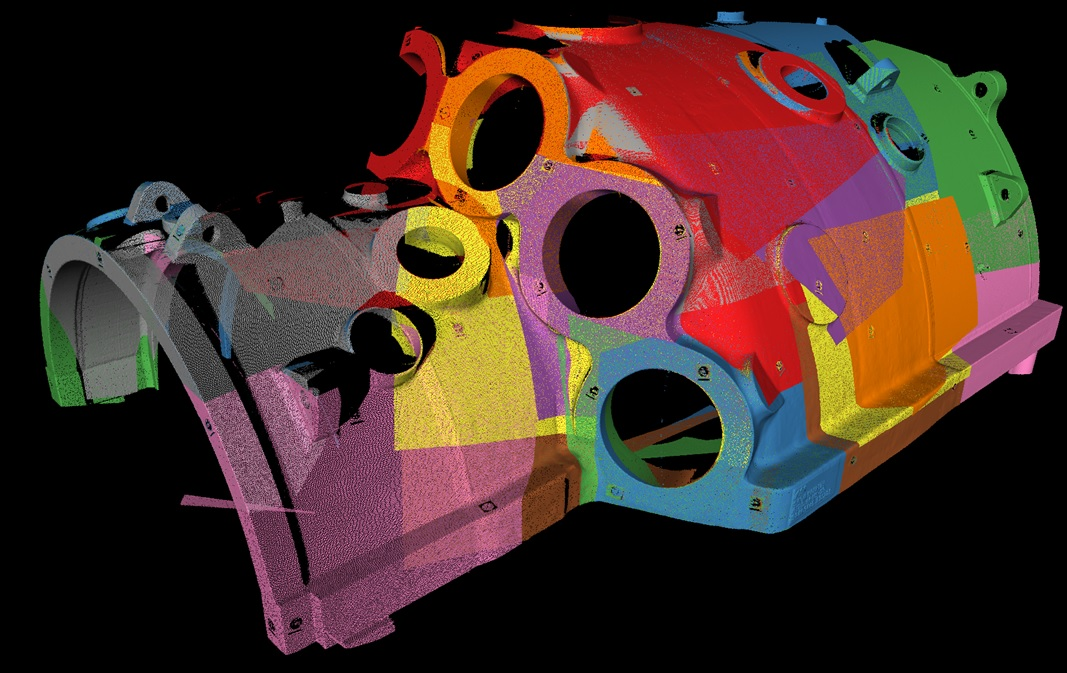
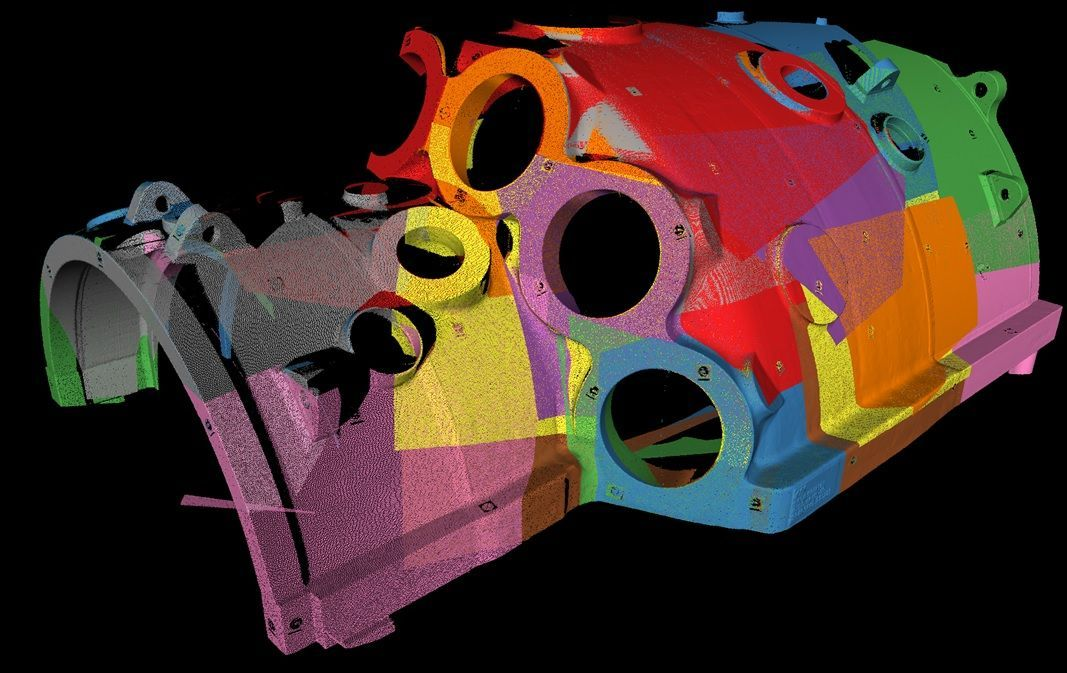
images optimized

diff --git a/index.html b/index.html
@@ -926,7 +926,7 @@ Eventually, we perform extensive tests on real data and demonstrate both numeric
 							<div class="col c1">
 								<article class="postPage">
 									<h4>HMM Real-time Illumination, Clutter and Occlusion Invariant Shape Matching</h4>
-									<img src="img/posts/barcode.png" alt="Barcode Decoding" class="postImg" title="Barcode Decoding"/>
+									<img src="img/posts/barcode.jpg" alt="Barcode Decoding" class="postImg" title="Barcode Decoding"/>
 									<p class="caps">In state of the art manufacturing processes, barcode labeling is a ubiquitous method to track products and goods. Thus, it is of great importance to have a powerful machinery of decoding them, even under severe deformations, damages, blur, occlusion and bad illumination conditions. The applications are numerous. From assisting blind people to industrial automated inspection, technology demands solid barcode reading algorithms. Yet, to the best of our knowledge, no existing well-established framework exists to accomplish this task. In this work, we propose an algorithm for real-time decoding of barcodes, with state of the art accuracy. Our method is based on a very well-studied hierarchical HMM framework and the decoding process is posed as a Viterbi dynamic programming, which allows us to use pruning strategies to search a large state space in real-time.<p></p>
 
 									
